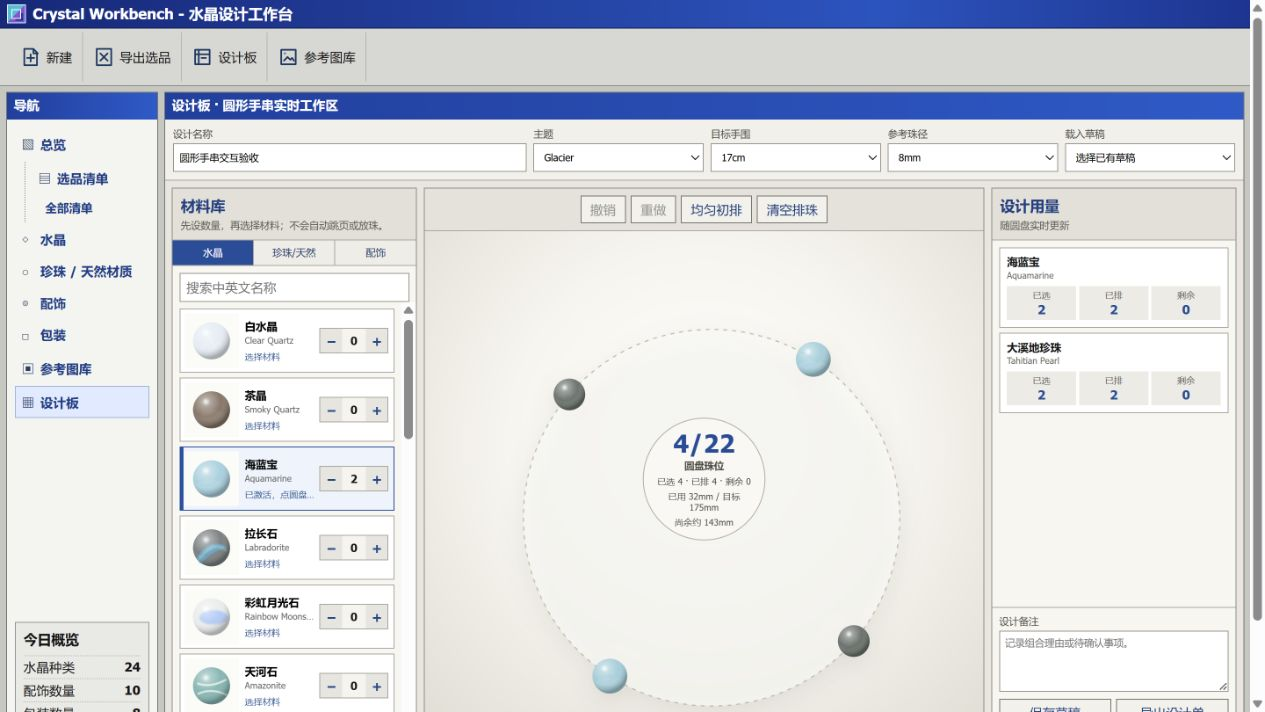
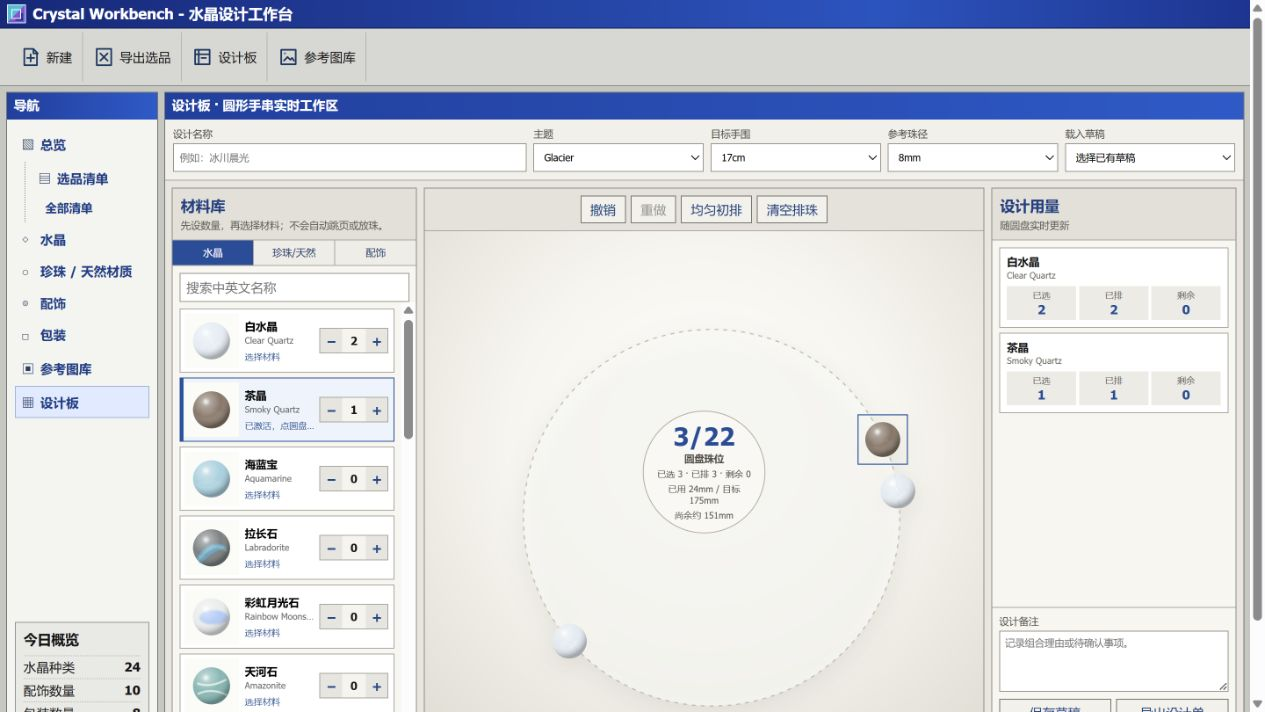
fix: support free bracelet bead insertion and dragging

diff --git a/workbench/app.js b/workbench/app.js
@@ -451,7 +451,8 @@ function applyCanvasCommand(command) {
   const state = ensureBraceletHistory().present;
   if (command.type === 'select-instance') {
     braceletHistory.present = { ...state, selectedInstanceId: command.instanceId };
-    return refreshDesignStudio();
+    syncBraceletDraft();
+    return;
   }
   if (command.type === 'place') {
     const selected = itemForName(command.materialName);
@@ -490,7 +491,7 @@ async function renderDesk() {
       <main class="bracelet-workspace" aria-label="圆形串珠设计区">
         <div class="workspace-toolbar"><button type="button" id="undo-layout">撤销</button><button type="button" id="redo-layout">重做</button><button type="button" id="auto-layout">均匀初排</button><button type="button" id="clear-layout">清空排珠</button></div>
         <div class="bracelet-canvas-host"><canvas id="bracelet-canvas" width="560" height="560"></canvas><div id="bracelet-fit-status" class="bracelet-fit-status"></div></div>
-        <p class="workspace-guide">点左侧材料只会选中；再点圆盘空位放入。拖动珠子可换位，拖出圆环可移除。相同材料可分别放到任意位置。</p>
+        <p class="workspace-guide">点左侧材料只会选中；再点圆环位置放入。点在已有珠位旁可插入并自动腾位。圆珠可沿圆环自由拖动，落到已有珠位会换位，拖出圆环可移除。</p>
       </main>
       <aside class="design-ledger" aria-label="设计用量清单"><header><h2>设计用量</h2><p>随圆盘实时更新</p></header><div id="design-ledger-items"></div><label>设计备注<textarea id="draft-notes" placeholder="记录组合理由或待确认事项。">${esc(draft.notes)}</textarea></label><div class="ledger-actions"><button id="save-draft">保存草稿</button><button id="export-draft">导出设计单</button></div><p id="desk-message" class="desk-message"></p></aside>
     </section>
